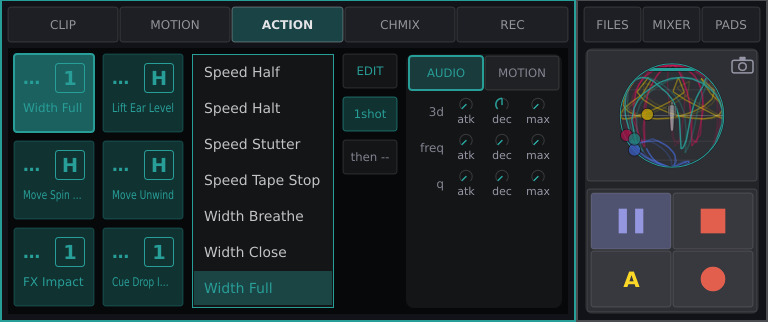
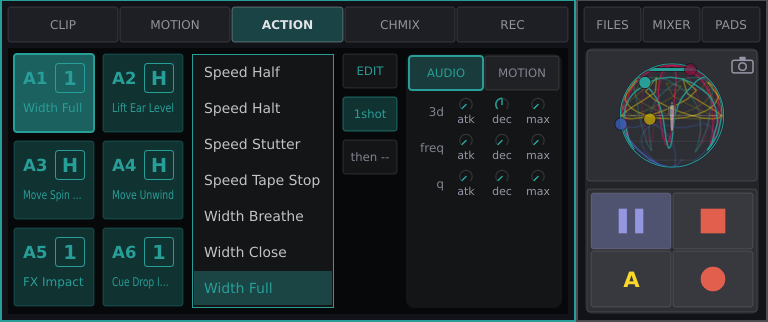
docs(motion): five GIFs re-recorded with the new status bar; ACTION pictures with readable numbers
howto-statusbar-tap, -files-load-clip, -menu-navigate, -menu-skin and -library-load-set, in quiet-indigo-2. The three that show the keyboard (files-edit-save, menu-network, menu-skin-editor-value) wait for the QWERTY keyboard.

diff --git a/src/user/a3motion.md b/src/user/a3motion.md
@@ -118,7 +118,7 @@ next downbeat.
 
 ![In FILES › SETS tap Warmup, tap Load, close FILES: all four channels carry the set, stopped.](pics_user/howto-files-load-set.gif)
 
-<!-- GIF: howto-files-load-clip.gif | region: 0,0,768,1024 | recorded 2026-09-29, 9.8 s | steps: Tap channel 2, open FILES › CLIPS, tap a clip, tap Load: channel 2 gets the clip. | "Choose the channel first" / "FILES › CLIPS" / "Tap a clip: it only shows" / "Load puts it on channel 2" -->
+<!-- GIF: howto-files-load-clip.gif | region: 0,0,768,1024 | recorded 2026-09-30, quiet-indigo-2 | steps: Tap channel 2, open FILES › CLIPS, tap a clip, tap Load: channel 2 gets the clip. | "Choose the channel first" / "FILES › CLIPS" / "Tap a clip: it only shows" / "Load puts it on channel 2" -->
 
 ![Tap channel 2, open FILES › CLIPS, tap a clip, tap Load: channel 2 gets the clip.](pics_user/howto-files-load-clip.gif)
 
@@ -474,7 +474,7 @@ tapped since. Tap it in again.
 
 <!-- QUESTION (maintainer): A3MotionUIComponent::applyClockMode saves _internalBPM only when it is still 0 (the first time INT is left) and taps never update it, so INT → EXT → PIO → INT restores a stale tempo (recorded: 116 BPM tapped, 60 BPM after the round trip). Bug? The page describes it as it is. -->
 
-<!-- GIF: howto-statusbar-tap.gif | region: 0,0,560,36 | recorded 2026-09-29, 9.5 s | steps: Tap the clock key to INT, tap the beat display eight times: the BPM follows. | "The clock key says whose tempo" / "INT: the tempo is yours" / "Tap the beat display in time" / "The BPM follows your taps" -->
+<!-- GIF: howto-statusbar-tap.gif | region: 0,0,500,36 | recorded 2026-09-30, quiet-indigo-2 | steps: Tap the clock key to INT, tap the beat display eight times: the BPM follows. | "The clock key says whose tempo" / "INT: the tempo is yours" / "Tap the beat display in time" / "The BPM follows your taps" -->
 
 ![Tap the clock key to INT, tap the beat display eight times: the BPM follows.](pics_user/howto-statusbar-tap.gif)
 
@@ -501,7 +501,7 @@ tapped since. Tap it in again.
 
 <!-- GIF: howto-statusbar-clean.gif | region: 0,0,768,626 | steps: tap CLEAN; 3 s; tap CLEAN | "CLEAN: lines and blobs only" / "Tap again: your skin is back" | round 1, no. 23 -->
 
-<!-- GIF: howto-menu-skin.gif | region: 0,0,768,1024 | recorded 2026-09-29, 10.0 s | steps: In MENU double tap Skin, step down three skins with the arrow key (each previews), press Escape: the old skin stays. | "MENU › Skin: double tap" / "Browse: each skin previews" / "Back: the old one stays" | arrow keys (xdotool key Down x3, Escape), so no finger ring on the browse; a tap would choose and save a skin -->
+<!-- GIF: howto-menu-skin.gif | region: 0,0,768,1024 | recorded 2026-09-30, quiet-indigo-2 | steps: In MENU double tap Skin, step down three skins with the arrow key (each previews), press Escape: the old skin stays. | "MENU › Skin: double tap" / "Browse: each skin previews" / "Back: the old one stays" | arrow keys (xdotool key Down x3, Escape), so no finger ring on the browse; a tap would choose and save a skin -->
 
 ![In MENU double tap Skin, step down three skins with the arrow key (each previews), press Escape: the old skin stays.](pics_user/howto-menu-skin.gif)
 
@@ -1148,7 +1148,7 @@ MENU itself. Back and MENU close **one level**; ✕ closes all of it at once,
 however deep. **Escape never quits the app.** In a booth, one elbow on a
 keyboard shouldn't end your set.
 
-<!-- GIF: howto-menu-navigate.gif | region: 0,0,768,660 | recorded 2026-09-29, 9.8 s | steps: Tap MENU, tap Network, drag the list, tap back, tap ✕. | "MENU opens it over the sphere" / "Tap a row: its page" / "Drag to scroll" / "‹ back: one level up" / "✕ closes all of it" | a page row opens on ONE tap; a double tap lands the second tap inside the page -->
+<!-- GIF: howto-menu-navigate.gif | region: 0,0,768,660 | recorded 2026-09-30, quiet-indigo-2 | steps: Tap MENU, tap Network, drag the list, tap back, tap ✕. | "MENU opens it over the sphere" / "Tap a row: its page" / "Drag to scroll" / "‹ back: one level up" / "✕ closes all of it" | a page row opens on ONE tap; a double tap lands the second tap inside the page -->
 
 ![Tap MENU, tap Network, drag the list, tap back, tap ✕.](pics_user/howto-menu-navigate.gif)
 
@@ -1496,7 +1496,7 @@ panel rather than ten:
 *More* moves the room towards energy and openness, *less* towards calm and
 weight. Every action script says which it is on its `Mood:` line.
 
-<!-- GIF: howto-library-load-set.gif | region: 0,0,768,1024 | recorded 2026-09-29, 9.8 s | steps: With four channels playing, open FILES › SETS, tap Warmup, tap Load, close FILES: the set is loaded, stopped. | "Four channels playing" / "FILES › SETS" / "Tap Warmup: it only shows" / "Load: the set is on, all stopped" / "Close FILES, then ▶ when ready" | a shipped set loads stopped, so it ends with FILES closed and ▶ ready -->
+<!-- GIF: howto-library-load-set.gif | region: 0,0,768,1024 | recorded 2026-09-30, quiet-indigo-2 | steps: With four channels playing, open FILES › SETS, tap Warmup, tap Load, close FILES: the set is loaded, stopped. | "Four channels playing" / "FILES › SETS" / "Tap Warmup: it only shows" / "Load: the set is on, all stopped" / "Close FILES, then ▶ when ready" | a shipped set loads stopped, so it ends with FILES closed and ▶ ready -->
 
 ![With four channels playing, open FILES › SETS, tap Warmup, tap Load, close FILES: the set is loaded, stopped.](pics_user/howto-library-load-set.gif)
 
